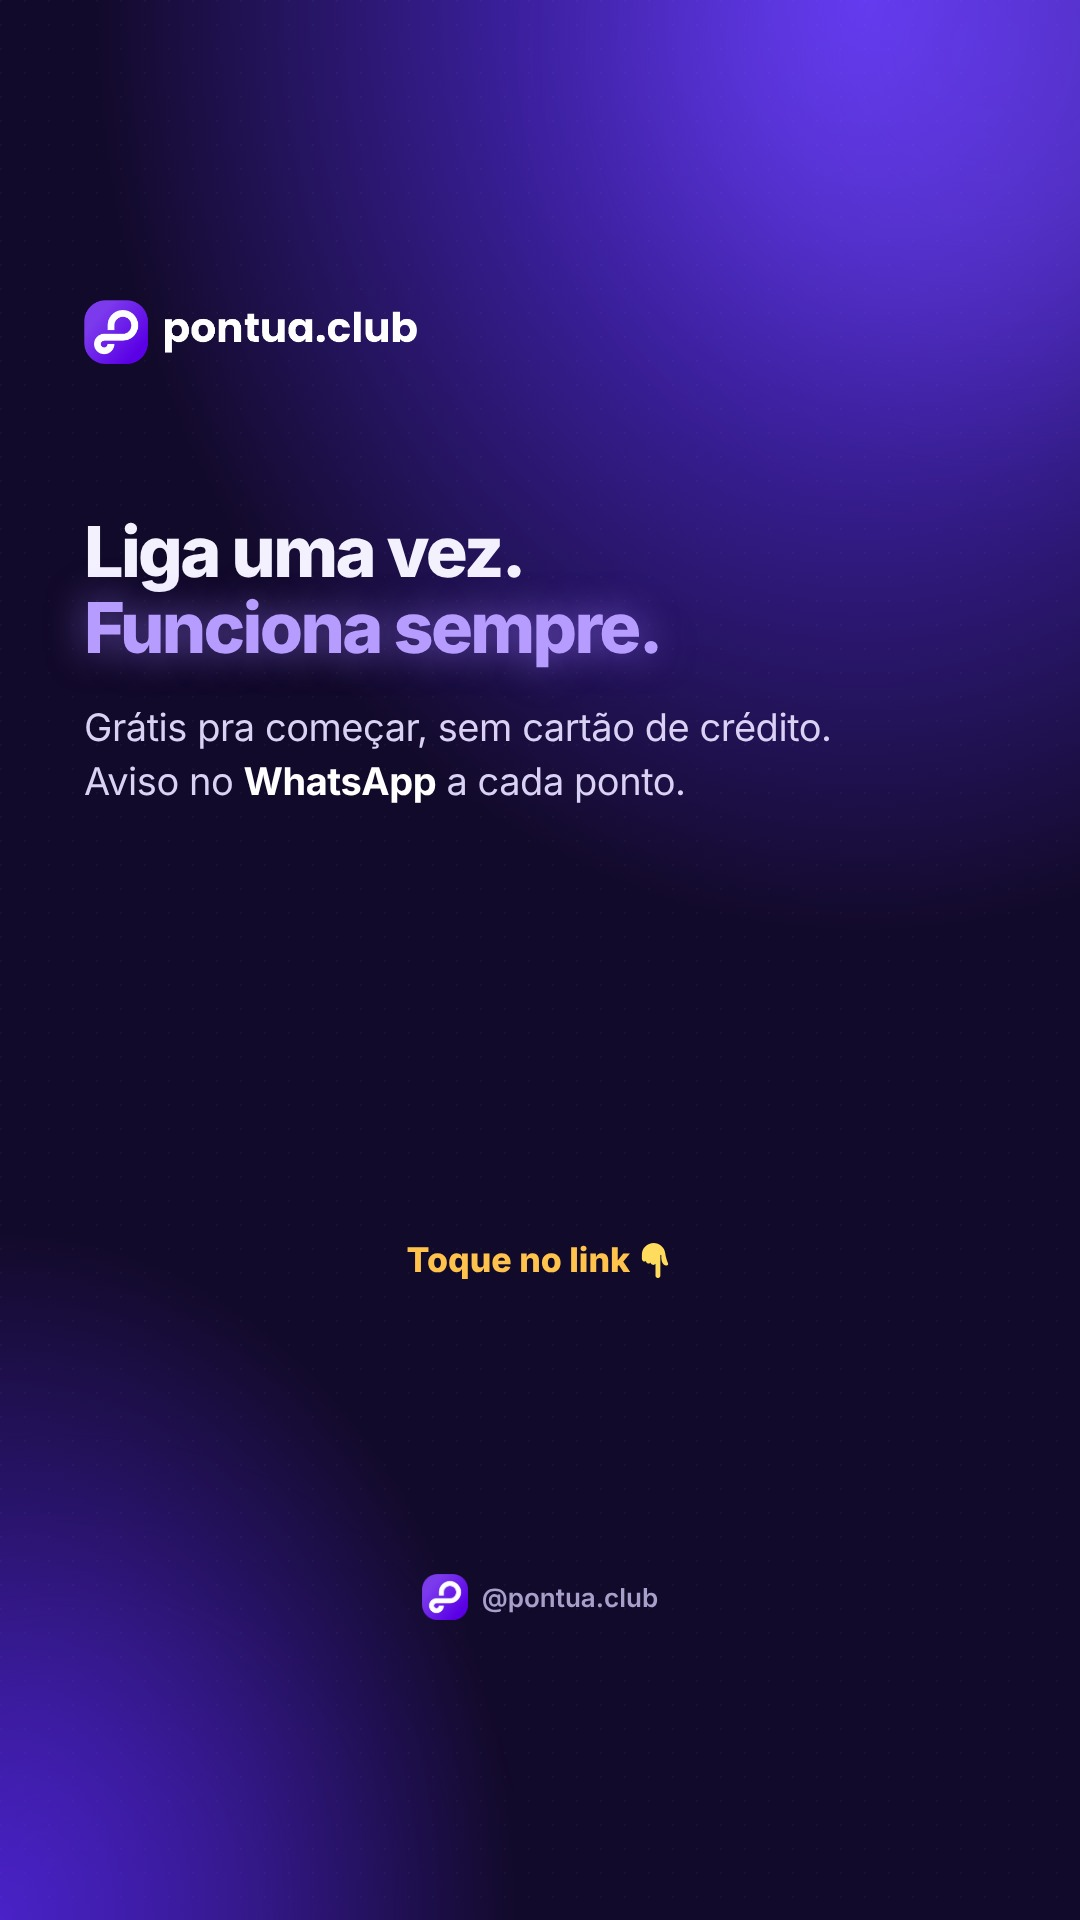
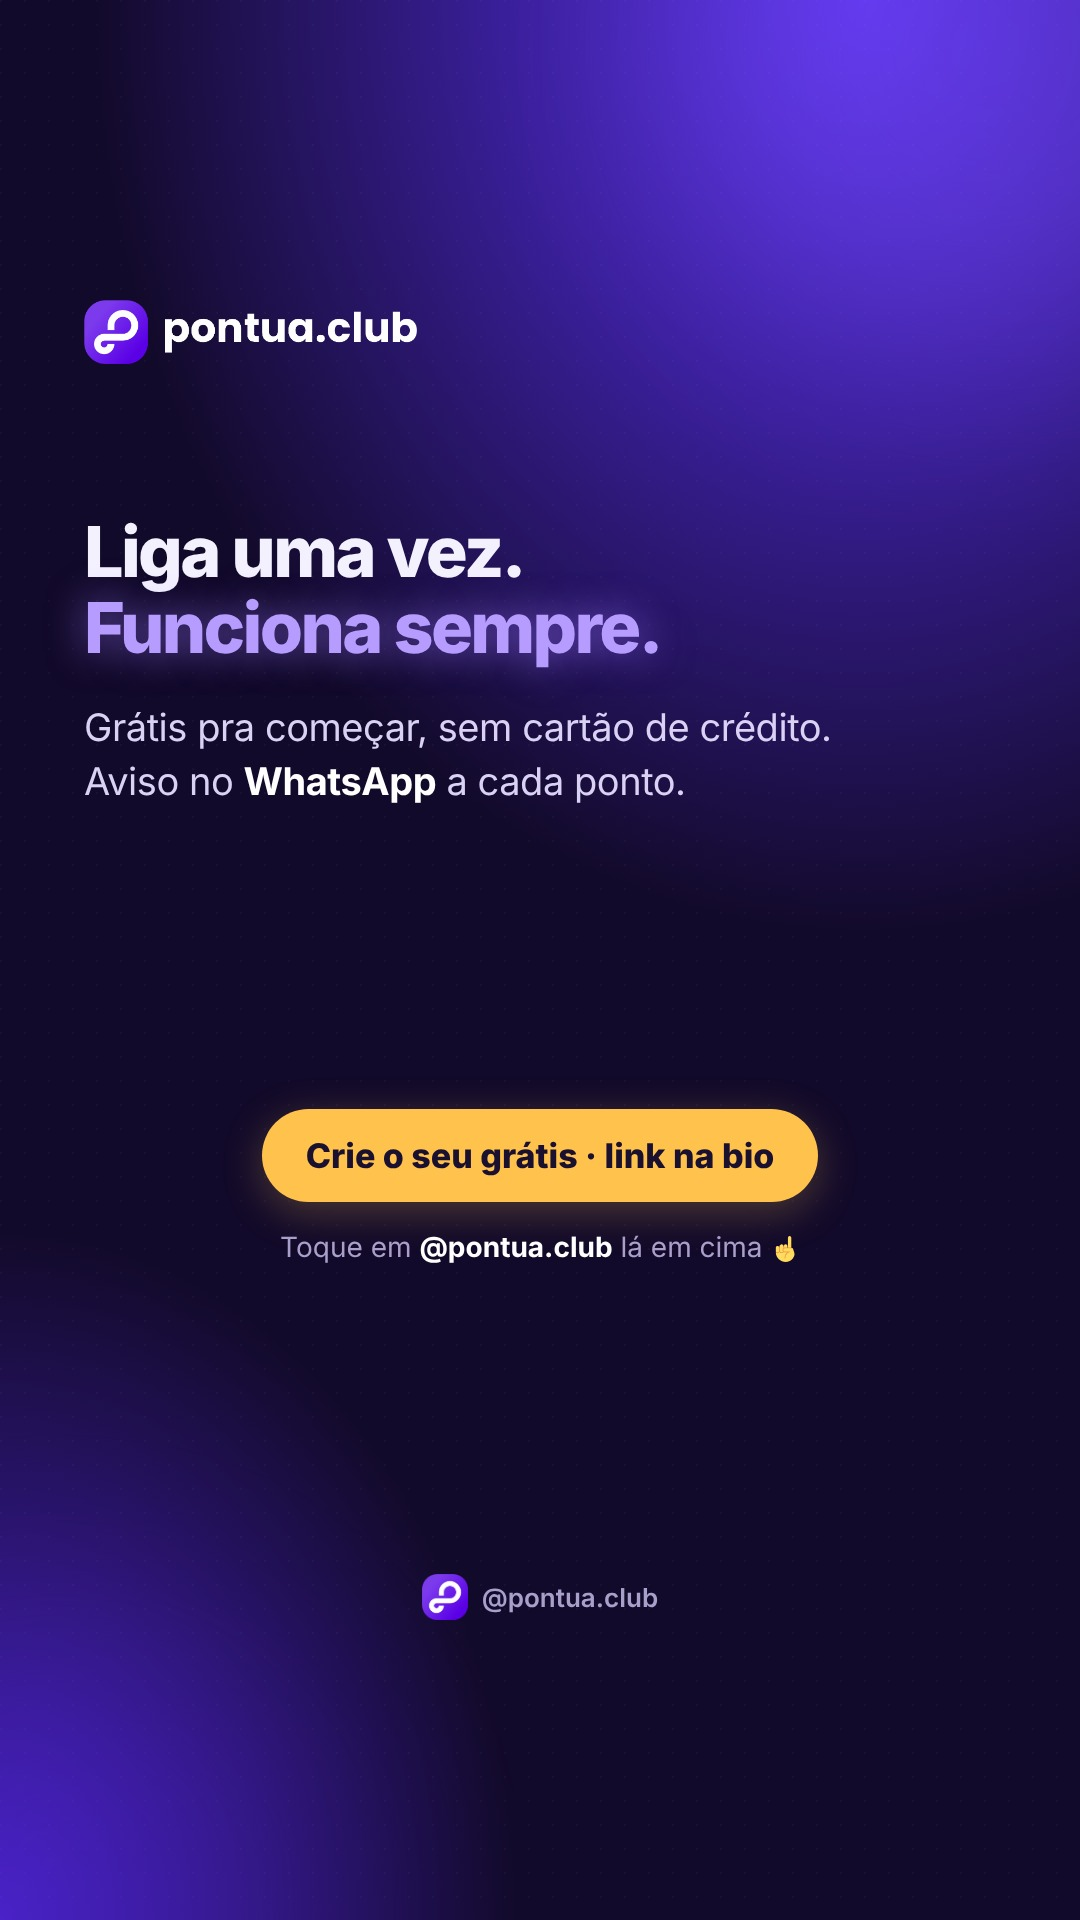
Destaques: CTA aponta para o link da bio (Business Suite não põe adesivo de link em story do Instagram)

Changed region(s): [[0.2444, 0.5625, 0.7639, 0.6875]]

diff --git a/gerador/stories_destaques.py b/gerador/stories_destaques.py
@@ -54,7 +54,8 @@ def st_cta(title, body):
   <img class="z" src="{LOGO_CLARA}" style="height:64px;align-self:flex-start;margin-top:40px">
   <div class="t2 z" style="margin-top:150px">{title}</div>
   <div class="bd z" style="margin-top:36px;font-size:38px">{body}</div>
-  <div class="z" style="margin-top:430px;text-align:center;font-size:34px;font-weight:800;color:{C['amber']}">Toque no link 👇</div>
+  <div class="z" style="margin-top:300px;align-self:center;text-align:center"><span class="pill" style="font-size:34px;padding:26px 44px">Crie o seu grátis · link na bio</span>
+  <div class="sm" style="margin-top:26px;font-size:28px">Toque em <b style="color:#fff">@pontua.club</b> lá em cima ☝</div></div>
   {mark()}</div>""")
 
 def capa(emoji):
